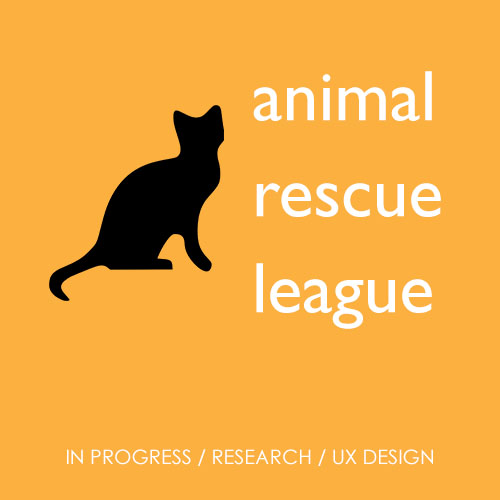
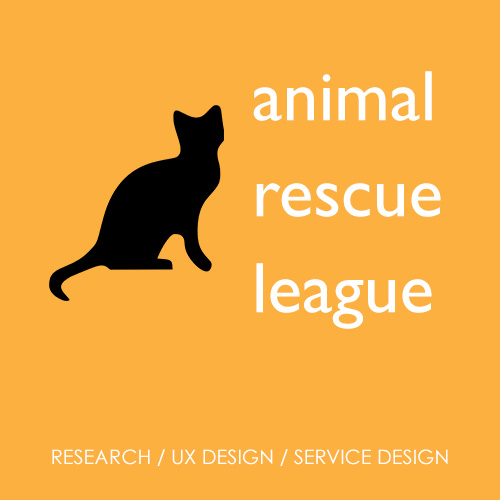
updating project nala info

diff --git a/arl.html b/arl.html
@@ -61,9 +61,9 @@
 										<h3>My Role</h3>
 									</header>
                                     <ul>
-                                        <li>Book Design</li>
                                         <li>Interaction Design</li>
                                         <li>Service Design</li>
+                                        <li>Book Design</li>
                                         <li>Research</li>
                                         <li>Prototyping</li>
                                     </ul>
@@ -84,7 +84,7 @@
                                     <li>Business Origami</li>
                                     <li>Affinity Diagramming</li>
                                     <li>Wireframing</li>
-                                    <li>Prototyping</li>
+                                    <li>Iterative Prototyping</li>
                                     <li>Customer Journey Maps</li>
                                     <li>Service Blueprints</li>
                                 </ul>
@@ -113,12 +113,39 @@
 									<ul>
                                         <li>4 months</li>
                                         <li>Jan - May 2014</li>
-                                        <li>In progress</li>
                                     </ul>
 								</section>
 							
 							</div>
 						</div>
+					</section>
+					
+					<!-- Project nala -->
+				    <section class="wrapper style1 container">
+						<div class="row oneandhalf">
+							<div class="8u">
+								<!-- Content -->
+									<div class="content">
+										<section>
+											<div class="image feature nobackground captioned"><img src="work/arl/project_nala.jpg" alt="" /></div>
+										    <caption>Final Project nala concept website pages.</caption>
+										</section>
+									</div>
+							</div>
+							<div class="4u skel-cell-important">
+								<!-- Sidebar -->
+									<div>
+										<section>
+										    <h3>Project nala with the Animal Rescue League</h3
+											<p>Project nala is a website I designed and prototyped for the Animal Rescue 
+											League of Western Pennsylvania. It allows community members to 
+											request expert trappers in order to Trap-Neuter-Return feral cats 
+											in their neighborhoods. Trap-Neuter Return is a humane way of 
+											controlling the feral cat population.<p>
+										</section>
+									</div>
+							</div>
+						</div>					
 					</section>
 					
 					
@@ -138,14 +165,8 @@
 								<!-- Sidebar -->
 									<div>
 										<section>
-										    <h3>About</h3
-											<p>My two teammates and I are working with the 
-											Animal Rescue League of W. Pennsylvania to 
-											build a tool that helps control the feral cat
-                                            population through spay/neuter programs and 
-                                            education. We are specifically looking at 
-                                            trap-neuter-return, which is a humane way of 
-                                            controlling the feral cat population.<p>
+										    <h3>About the Project</h3
+											<p>The Animal Rescue League wanted a tool to educate the community about feral cats and also control the feral cat population.<p>
 										</section>
 									</div>
 							</div>
